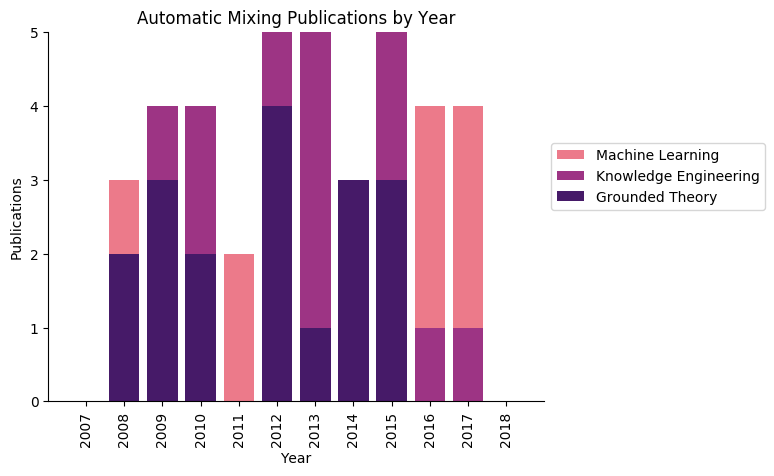
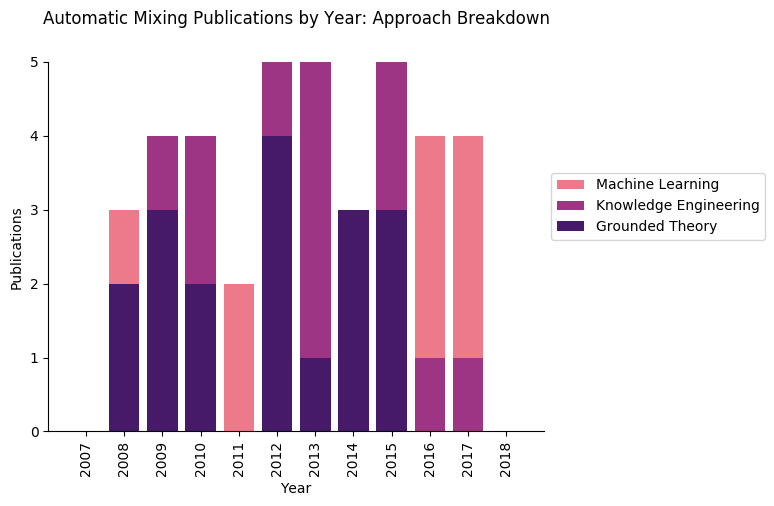
bar chart tweaking

diff --git a/mixingpapers.py b/mixingpapers.py
@@ -72,7 +72,7 @@ def calculate_statistics(filename):
     plt.xticks(years_num, years_num, rotation='vertical')
     plt.xlabel('Year')
     plt.ylabel('Publications')
-    plt.title('Automatic Mixing Publications by Year')
+    plt.title('Automatic Mixing Publications by Year', y=1.08)
     plt.savefig('figs/papers_by_year.png', bbox_inches="tight", transparent=True)
 
     # plot publications by year with division by approach
@@ -90,7 +90,7 @@ def calculate_statistics(filename):
     plt.xticks(years_num, years_num, rotation='vertical')
     plt.xlabel('Year')
     plt.ylabel('Publications')
-    plt.title('Automatic Mixing Publications by Year')
+    plt.title('Automatic Mixing Publications by Year: Approach Breakdown', y=1.08)
     lgd = plt.legend((p3[0], p2[0], p1[0]), ('Machine Learning', 'Knowledge Engineering', 'Grounded Theory'), loc=3, bbox_to_anchor=(1, 0.5))
     plt.savefig('figs/approaches_by_year.png', additional_artists=lgd, bbox_inches="tight", transparent=True)
 
@@ -115,7 +115,7 @@ def calculate_statistics(filename):
     plt.xticks(years_num, years_num, rotation='vertical')
     plt.xlabel('Year')
     plt.ylabel('Publications')
-    plt.title('Automatic Mixing Publications by Year')
+    plt.title('Automatic Mixing Publications by Year: Category Breakdown', y=1.08)
     lgd = plt.legend((p6[0], p5[0], p4[0], p3[0], p2[0], p1[0]), ('Level', 'Panning', 'Equalization', 'Compression', 'Reverb', 'Integrated'), loc=3, bbox_to_anchor=(1, 0.5))
     plt.savefig('figs/categories_by_year.png',  additional_artists=lgd, bbox_inches="tight",  transparent=True)
 
@@ -125,9 +125,11 @@ def calculate_statistics(filename):
     sizes = approaches.values()
     colors = [GT_color, KE_color, ML_color]
     ax = plt.subplot(111)
-    wedges = ax.pie(sizes, labels=labels, autopct='%1.1f%%', startangle=90, colors=colors)
-    for wedge in wedges[0]:
+    details = ax.pie(sizes, labels=labels, autopct='%1.1f%%', startangle=90, colors=colors)
+    for wedge in details[0]:
         wedge.set_edgecolor('white')
+    for perct in details[2]:
+        perct.set_color('white')
     ax.axis('equal')
     plt.savefig('figs/approaches_breakdown.png', transparent=True)
 
@@ -137,9 +139,11 @@ def calculate_statistics(filename):
     sizes = categories.values()
     colors = [level_color, pan_color, eq_color, comp_color, verb_color, int_color]
     ax = plt.subplot(111)
-    wedges = ax.pie(sizes, labels=labels, autopct='%1.1f%%', startangle=90, colors=colors)
-    for wedge in wedges[0]:
+    details = ax.pie(sizes, labels=labels, autopct='%1.1f%%', startangle=90, colors=colors)
+    for wedge in details[0]:
         wedge.set_edgecolor('white')
+    for perct in details[2]:
+        perct.set_color('white')
     plt.axis('equal')
     plt.savefig('figs/categories_breakdown.png',  transparent=True)
 
